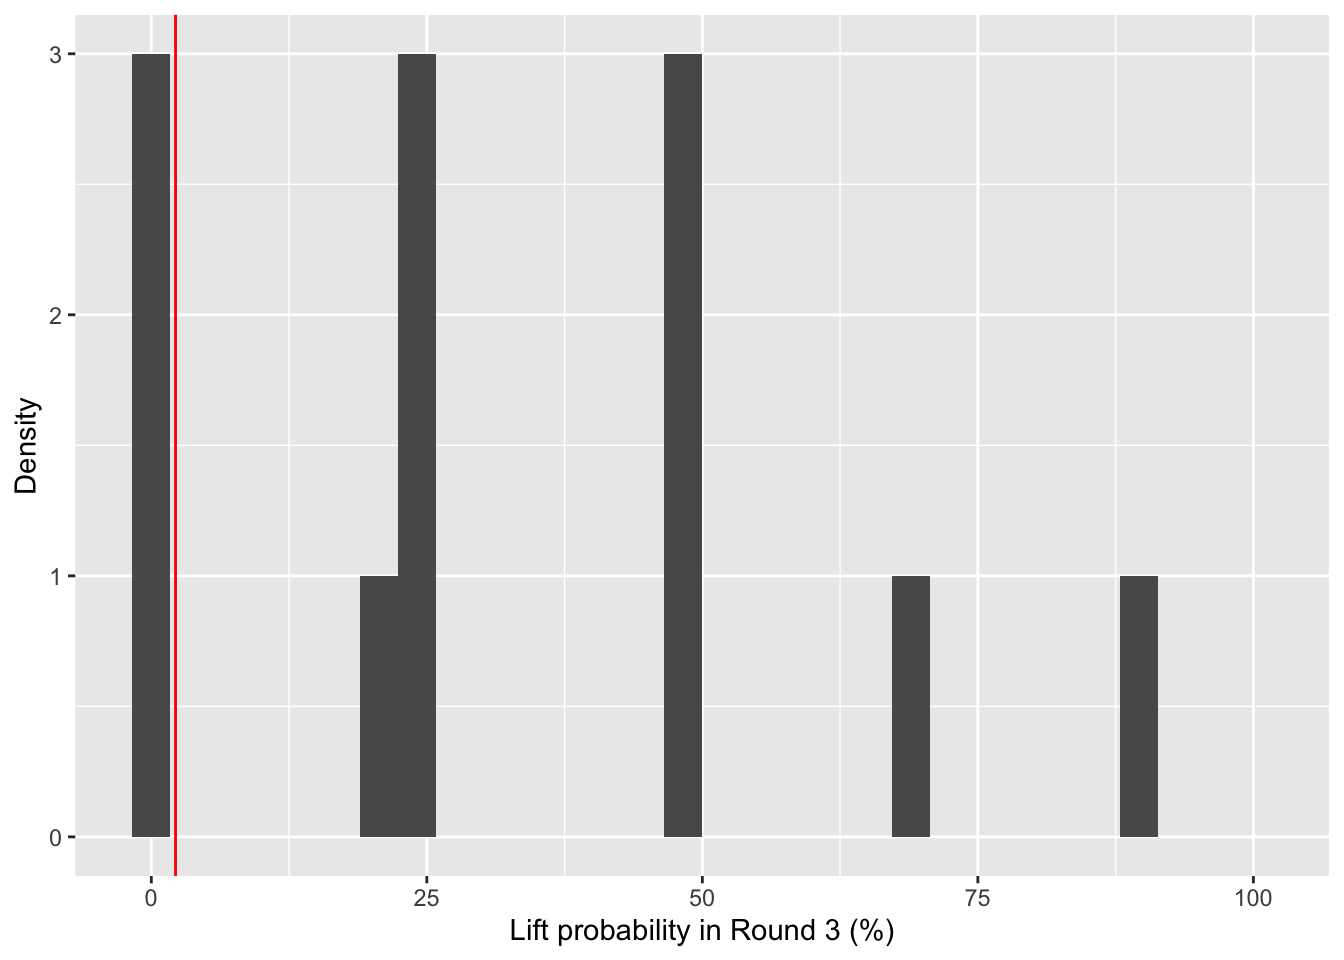
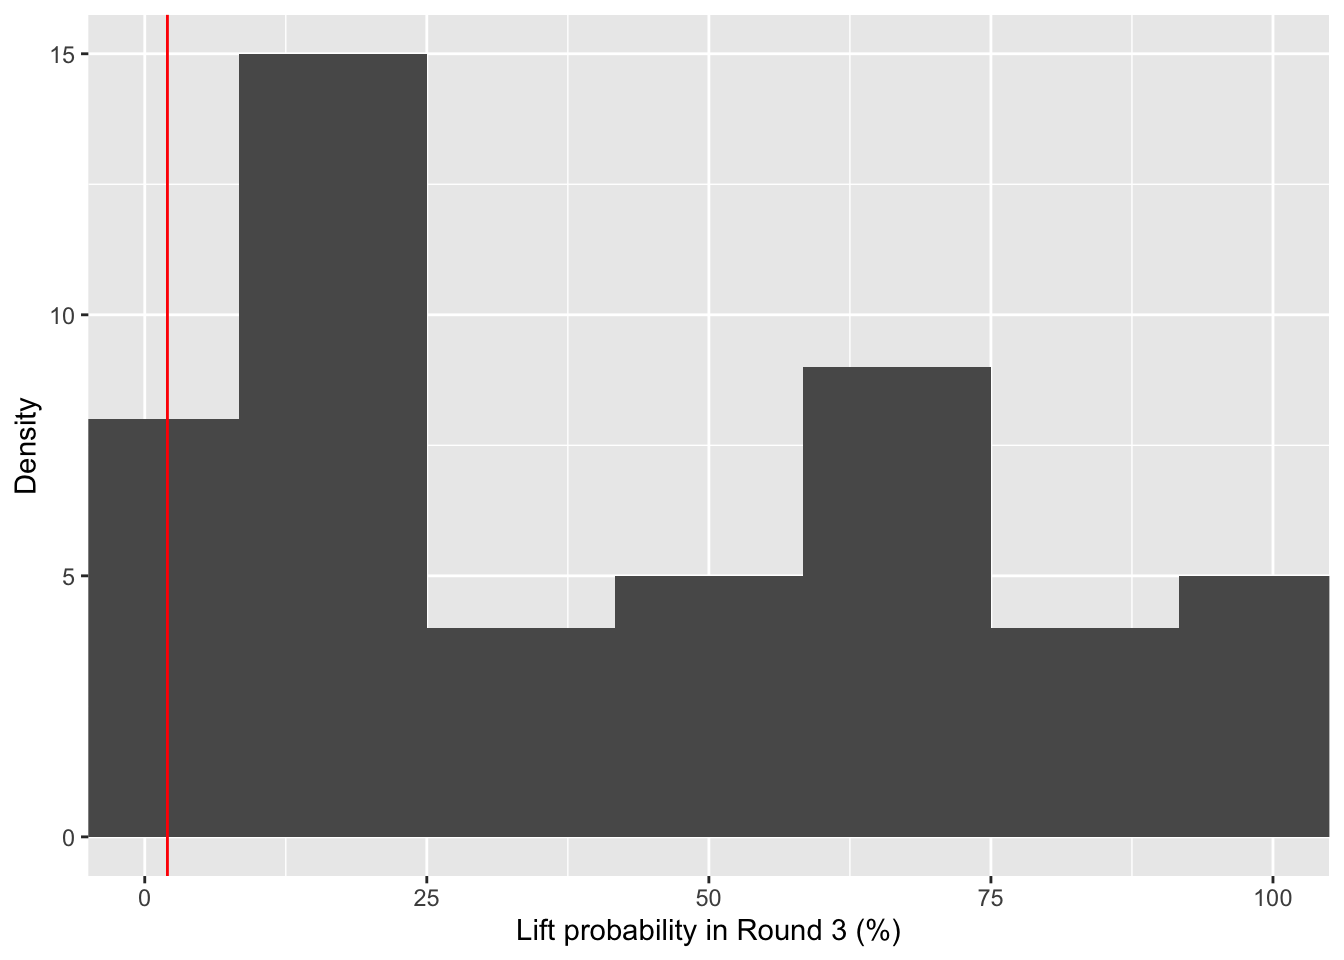
add full data (n=50)

diff --git a/docs/writeup/index.html b/docs/writeup/index.html
@@ -7,7 +7,7 @@
 <meta name="viewport" content="width=device-width, initial-scale=1.0, user-scalable=yes">
 
 <meta name="author" content="Jacob C. Zimmerman (j2zimmerman@ucsd.edu)">
-<meta name="dcterms.date" content="2025-11-19">
+<meta name="dcterms.date" content="2025-11-20">
 
 <title>Replication of Experiment 1 by Xiang, Vélez &amp; Gershman (2023, JEP:G)</title>
 <style>
@@ -127,7 +127,7 @@ ul.task-list li input[type="checkbox"] {
     <div>
     <div class="quarto-title-meta-heading">Published</div>
     <div class="quarto-title-meta-contents">
-      <p class="date">November 19, 2025</p>
+      <p class="date">November 20, 2025</p>
     </div>
   </div>
   
@@ -232,7 +232,7 @@ Hosted version of this report: <a href="https://psyc-201.github.io/xiang2023/wri
 </tbody>
 </table>
 <p>Collecting 9 participants is completely feasible (with each spending ~16 minutes; see Procedure). To compensate for the original study’s measured effect size being inflated (e.g., due to publication bias), 15 participants should be necessary for sufficient power for the primary effect of interest, and this count is also feasible.</p>
-<p>However, for the sake of qualitatively replicating the overall pattern of estimated probabilities increasing as scenarios feature more successful individual lifts (monotonic increase in probability from left to right in Figure 3C; which I’ve labeled “B” above), and that the joint effort model is the only considered model which captures both the key effect and this pattern, I find it prudent to retain the same sample size so that I may attempt to replicate the original qualitative finding with comparable precision. (Targeting higher precision could potentially counter aforementioned effect inflation present in the original paper, but as it is unclear how to quantify the necessary precision for these qualitative analyses, targeting the original precision appears to be a sensible option.)</p>
+<p>However, for the sake of qualitatively replicating the overall pattern of estimated probabilities increasing as scenarios feature more successful individual lifts (general increase in probability from left to right in Figure 3C; which I’ve labeled “B” above), and that the joint effort model is the only considered model which captures both the key effect and this pattern, I find it prudent to retain the same sample size so that I may attempt to replicate the original qualitative finding with comparable precision. (Targeting higher precision could potentially counter aforementioned effect inflation present in the original paper, but as it is unclear how to quantify the necessary precision for these qualitative analyses, targeting the original precision appears to be a sensible option.)</p>
 <p>Further, in the original study, given 50 participants, the key effect appeared quite robust, with the CI for the data from scenario “F,F;F,F” being quite far from the line LiftProbability=0 (see Figure 3C), suggesting that with 50 participants, we are nearly guaranteed to replicate this effect if it is true.</p>
 <p>Given my understanding of course funding available, collecting 50 participants is feasible.</p>
 </section>
@@ -325,11 +325,9 @@ Hosted version of this report: <a href="https://psyc-201.github.io/xiang2023/wri
 </section>
 <section id="confirmatory-analysis" class="level3">
 <h3 class="anchored" data-anchor-id="confirmatory-analysis">Confirmatory analysis</h3>
-<p>I found/did not find that participants rated the probability of joint success in round 3 as non-zero (<em>t</em>(11) = 4.0634129, <em>p</em> = 0.0019). See the black point range (data) for scenario “F,F;F,F” under Exploratory analyses.</p>
+<p>I found that participants rated the probability of joint success in round 3 as non-zero (<em>t</em>(49) = 9.2641181, <em>p</em> = 2.4^{-12}). See the black point range (data) for scenario “F,F;F,F” under Exploratory analyses.</p>
+<p>The effect size found is <em>d</em> = 1.31.</p>
 <div class="cell">
-<div class="cell-output cell-output-stderr">
-<pre><code>`stat_bin()` using `bins = 30`. Pick better value `binwidth`.</code></pre>
-</div>
 <div class="cell-output-display">
 <div>
 <figure class="figure">

diff --git a/README.md b/README.md
@@ -10,3 +10,5 @@ Can quickly render report using `pixi shell` then `quarto render writeup` or `qu
 ## Temp Notes
 
 - as of 2025-11-13, the first three csv files are pilots (6bt3juzg6gt3 was not a genuine pilot and just was moving through the task to test it technically)
+
+- on Prolific there are 51 participants, not 50, since one returned the study but was also approved (since they returned the study, it opened up the slot again). however, we only have 50 participants' data, since one participant's data (prolificId starting with 5c6) apparently wasn't recorded -- I think they didn't press "Next" at the very end of the study, which is necessary to save the data. in the future, saving should happen before the completion code is given
